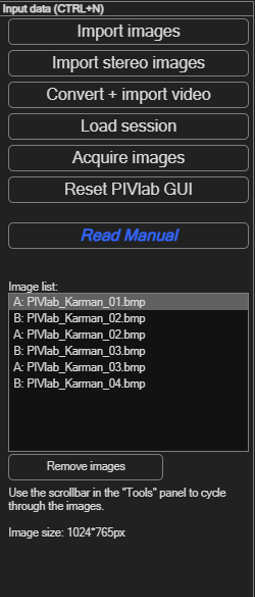
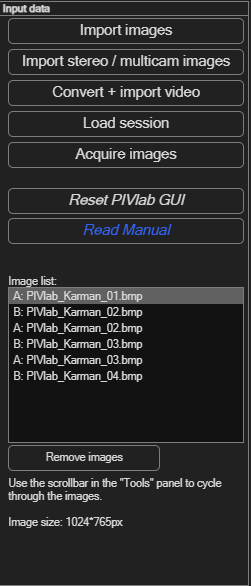
Stereo UI renames: "Stereo-PIV / multicam"; 3D view orbit direction
- "Import multi-camera images" -> "Import stereo / multicam images"; Input
  data buttons 11 pt so the label fits
- Menu entry and panel "Multi-camera PIV" -> "Stereo-PIV / multicam"
- "Compute 3D alignment" -> "Compute stereo / 3D alignment"
- Manual: UI names, search index, new screenshots of the Input data and
  Stereo-PIV / multicam panels
- 3D scenes: horizontal orbit follows the mouse like the vertical one,
  0.5 deg per pixel

Changed region(s): [[0.0279, 0.0, 1.0, 1.0], [0.0279, 0.4608, 0.5857, 0.6758]]

diff --git a/docs/manual/pages/command-line.html b/docs/manual/pages/command-line.html
@@ -50,7 +50,7 @@ pivlab.saveSession(res, "analysis.mat");                           % open it in 
       <tr><td><code>pivlab.display(res, ...)</code></td><td>Vectors on the particle image or on a transparent colour map with colour bar, all options of the plot settings.</td><td>Plot appearance</td></tr>
       <tr><td><code>pivlab.defaults()</code>, <code>pivlab.loadSettings(file)</code></td><td>Default settings, or the settings of a settings file or session (detected automatically).</td><td>Load settings</td></tr>
       <tr><td><code>pivlab.loadSession(file)</code>, <code>pivlab.saveSession(res, file)</code></td><td>Results of a session; save results as a session that opens in the GUI.</td><td>Load / save session</td></tr>
-      <tr><td><code>pivlab.stereo(imgs, boards, board, ...)</code></td><td>Stereo-PIV of two cameras: stereo calibration, disparity correction, PIV of both cameras, U, V and W (see <a href="#stereo">below</a>).</td><td>Stereo-PIV panel + Analyze</td></tr>
+      <tr><td><code>pivlab.stereo(imgs, boards, board, ...)</code></td><td>Stereo-PIV of two cameras: stereo calibration, disparity correction, PIV of both cameras, U, V and W (see <a href="#stereo">below</a>).</td><td>Stereo-PIV / multicam panel + Analyze</td></tr>
     </table>
 
     <h2 id="results">The result struct</h2>
@@ -128,7 +128,7 @@ imgs = pivlab.preprocess(imgs, Camera="camera_calibration.mat");</code></pre>
     <code>pivlab.saveSession</code> saves it, so the GUI opens the session with the same corrected images.</p>
 
     <h2 id="stereo">Stereo-PIV</h2>
-    <p><code>pivlab.stereo</code> does what the <a href="stereo-piv.html">Stereo-PIV panel</a> and
+    <p><code>pivlab.stereo</code> does what the <a href="stereo-piv.html">Stereo-PIV / multicam panel</a> and
     <span class="ui">Analyze</span> do in the GUI. It needs the images and the lens calibration of both
     cameras, one image of the ChArUco board in the light sheet per camera, and the board definition:</p>
 <pre><code>imgs{1} = pivlab.preprocess(pivlab.readImages("D:\run1\cam1\*.tif", "pairwise"), Camera="lens_cam1.mat");
@@ -143,7 +143,7 @@ pivlab.display(res, Overlay="w");</code></pre>
       <li>The result is a normal result with the out-of-plane component in addition:
       <code>res.w</code>, positive along z = x × y (with the default axes: toward camera 1).
       <code>res.stereo</code> holds the stereo calibration, the disparity (with the report of the
-      Stereo-PIV panel in <code>res.stereo.disparity.report</code>), the 2D results of both cameras and
+      Stereo-PIV / multicam panel in <code>res.stereo.disparity.report</code>), the 2D results of both cameras and
       the reconstruction residual.</li>
       <li>As <span class="ui">Analyze</span> in the GUI, <code>pivlab.stereo</code> does not validate: call
       <code>pivlab.filter</code>. <code>VelocityLimits</code> act on U, V of the 3D result and
@@ -158,7 +158,7 @@ pivlab.display(res, Overlay="w");</code></pre>
       <code>Overlay="w"</code> and <code>Overlay="residual"</code> (how well both cameras fit one
       3D velocity, px).</li>
       <li><code>Settings=pivlab.loadSettings("stereo_session.mat")</code> uses the pre-processing, PIV and
-      Stereo-PIV panel settings of a GUI session. <code>pivlab.loadSession</code> reads stereo sessions of
+      Stereo-PIV / multicam panel settings of a GUI session. <code>pivlab.loadSession</code> reads stereo sessions of
       the GUI, <code>pivlab.saveSession</code> writes sessions that the GUI opens in stereo mode.</li>
     </ul>
     <p>A complete example: <code>Example_scripts/PIVlab_api_stereo.m</code>, with the synthetic stereo

diff --git a/docs/manual/pages/stereo-piv.html b/docs/manual/pages/stereo-piv.html
@@ -13,7 +13,7 @@
     <p class="lead">Two cameras that look at the light sheet from different directions give all
     <strong>three velocity components</strong>: u and v in the sheet and w through it. Most of the
     work is the same as in 2D PIV; new are the <strong>camera switch</strong> and the
-    <strong>Stereo-PIV panel</strong>.</p>
+    <strong>Stereo-PIV / multicam panel</strong>.</p>
     <div class="v3">
       <strong>PIVlab 3.14</strong>
       Stereo-PIV is not available in PIVlab 3.14.
@@ -69,7 +69,7 @@
 
     <h2 id="import">1. Import</h2>
     <ul>
-      <li>Input data panel: <span class="ui">Import stereo images</span>
+      <li>Input data panel: <span class="ui">Import stereo / multicam images</span>
       (<kbd>Ctrl</kbd>+<kbd>Shift</kbd>+<kbd>O</kbd>). In the
       <a href="sessions.html#importing">import dialog</a> add the images with
       <span class="ui">Add to camera 1</span> and <span class="ui">Add to camera 2</span>.</li>
@@ -95,15 +95,15 @@
     </ul>
 
     <h2 id="calibration">3. Stereo calibration</h2>
-    <p>Steps 3 and 4 are in the <strong>Stereo-PIV panel</strong>
-    (<span class="ui">Analysis → Stereo-PIV</span>, <kbd>Ctrl</kbd>+<kbd>Shift</kbd>+<kbd>W</kbd>).
+    <p>Steps 3 and 4 are in the <strong>Stereo-PIV / multicam panel</strong>
+    (<span class="ui">Analysis → Stereo-PIV / multicam</span>, <kbd>Ctrl</kbd>+<kbd>Shift</kbd>+<kbd>W</kbd>).
     Its checklist shows what is still missing.</p>
     <figure class="inline-panel">
-      <img src="../assets/img/stereo-piv/panel.png" alt="The Stereo-PIV panel with the checklist, the stereo calibration buttons and the disparity correction settings and report">
-      <figcaption>The <strong>Stereo-PIV</strong> panel after the stereo calibration and the
+      <img src="../assets/img/stereo-piv/panel.png" alt="The Stereo-PIV / multicam panel with the checklist, the 3D alignment buttons and the disparity correction settings and report">
+      <figcaption>The <strong>Stereo-PIV / multicam</strong> panel after the stereo calibration and the
       disparity correction.</figcaption>
     </figure>
-    <p><span class="ui">Compute stereo calibration</span> finds the board corners in both board
+    <p><span class="ui">Compute stereo / 3D alignment</span> finds the board corners in both board
     images and computes the camera positions. Afterwards:</p>
     <ul>
       <li>Both cameras are shown on the common grid (check with <span class="ui">Show rectified

diff --git a/docs/manual/pages/sessions.html b/docs/manual/pages/sessions.html
@@ -21,7 +21,7 @@
         <p>Choose <span class="ui">File → New session</span> (<kbd>Ctrl+Shift+N</kbd>), or click the
         first icon in <span class="ui">Main tasks quick access</span>. This opens the
         <span class="ui">Input data</span> panel shown here, with these ways to get images in:
-        <span class="ui">Import images</span> (from disk), <span class="ui">Import stereo images</span>
+        <span class="ui">Import images</span> (from disk), <span class="ui">Import stereo / multicam images</span>
         (two cameras, see <a href="stereo-piv.html">Stereo-PIV</a>), <span class="ui">Convert + import
         video</span>, <span class="ui">Load session</span> (resume earlier work — see below), and
         <span class="ui">Acquire images</span> (capture directly from a connected camera).</p>
@@ -189,7 +189,7 @@
     <div class="note">
       <strong>Related, but covered elsewhere</strong>
       <span class="ui">Acquire images</span> (live camera capture) and
-      <a href="stereo-piv.html">Stereo-PIV</a> (<span class="ui">Import stereo images</span>,
+      <a href="stereo-piv.html">Stereo-PIV</a> (<span class="ui">Import stereo / multicam images</span>,
       two cameras in one session) are more specialized topics with their own pages.
     </div>
   </article>

diff --git a/docs/manual/pages/shortcuts.html b/docs/manual/pages/shortcuts.html
@@ -22,7 +22,7 @@
     <table class="ref">
       <tr><th>Shortcut</th><th>Opens</th></tr>
       <tr><td><kbd>Ctrl</kbd>+<kbd>Shift</kbd>+<kbd>N</kbd></td><td>New session / load image data</td></tr>
-      <tr><td><kbd>Ctrl</kbd>+<kbd>Shift</kbd>+<kbd>O</kbd></td><td>Import stereo images (camera 1 and camera 2)</td></tr>
+      <tr><td><kbd>Ctrl</kbd>+<kbd>Shift</kbd>+<kbd>O</kbd></td><td>Import stereo / multicam images (camera 1 and camera 2)</td></tr>
     </table>
 
     <h2 id="settings">Image settings</h2>
@@ -37,7 +37,7 @@
     <table class="ref">
       <tr><th>Shortcut</th><th>Opens</th></tr>
       <tr><td><kbd>Ctrl</kbd>+<kbd>Shift</kbd>+<kbd>S</kbd></td><td>PIV settings</td></tr>
-      <tr><td><kbd>Ctrl</kbd>+<kbd>Shift</kbd>+<kbd>W</kbd></td><td>Stereo-PIV panel</td></tr>
+      <tr><td><kbd>Ctrl</kbd>+<kbd>Shift</kbd>+<kbd>W</kbd></td><td>Stereo-PIV / multicam panel</td></tr>
       <tr><td><kbd>Ctrl</kbd>+<kbd>Shift</kbd>+<kbd>A</kbd></td><td>Analyze (current frame / all frames)</td></tr>
       <tr><td><kbd>Ctrl</kbd>+<kbd>Shift</kbd>+<kbd>V</kbd></td><td>Velocity-based vector validation</td></tr>
       <tr><td><kbd>Ctrl</kbd>+<kbd>Shift</kbd>+<kbd>F</kbd></td><td>Image-based validation</td></tr>

diff --git a/docs/manual/assets/js/search-index.js b/docs/manual/assets/js/search-index.js
@@ -474,7 +474,7 @@ window.MANUAL_SEARCH = [
     title: "Stereo-PIV analysis (2D3C)",
     href: "pages/stereo-piv.html", hash: "top",
     section: "Stereo-PIV (2D3C)",
-    text: "stereo piv analysis two cameras 2d3c three components w out-of-plane import stereo images camera switch lens calibration board image load target image stereo calibration disparity correction remaining disparity reconstruction residual colour bar coordinate system x y z u v w tilted sensor check analysis rectified board stereo-piv panel checklist export w column vtk tecplot ascii mat w component 3d magnitude mean tke"
+    text: "stereo piv analysis two cameras 2d3c three components w out-of-plane import stereo images import stereo / multicam images multicam camera switch lens calibration board image load target image stereo calibration disparity correction remaining disparity reconstruction residual colour bar coordinate system x y z u v w tilted sensor check analysis rectified board stereo-piv panel stereo-piv / multicam panel compute stereo / 3d alignment checklist export w column vtk tecplot ascii mat w component 3d magnitude mean tke"
   },
   {
     title: "Stereo-PIV: set-up and recording",

diff --git a/docs/manual/pages/stereo-setup.html b/docs/manual/pages/stereo-setup.html
@@ -120,7 +120,7 @@
       <li>With <a href="capture.html#stereo">stereo acquisition</a> in PIVlab, both cameras get the same
       trigger and the recording opens directly in stereo mode.</li>
       <li>Images recorded with another system are <a href="stereo-piv.html#import">imported</a> with
-      <span class="ui">Import stereo images</span>.</li>
+      <span class="ui">Import stereo / multicam images</span>.</li>
     </ul>
     <p>Next: <a href="stereo-piv.html">Stereo-PIV analysis</a>, from the images to u, v and w. To try
     everything without hardware, the <a href="synthetic-images.html">stereo-PIV simulator</a> creates

diff --git a/docs/manual/pages/camera-calibration.html b/docs/manual/pages/camera-calibration.html
@@ -23,7 +23,7 @@
 
     <div class="note">
       <strong>Two cameras: stereo-PIV</strong>
-      After <span class="ui">Import stereo images</span>, each camera gets its own lens
+      After <span class="ui">Import stereo / multicam images</span>, each camera gets its own lens
       calibration and its own board image in the light sheet. The panels work on the camera
       that is shown; switch it with the <span class="ui">CAM 1</span> / <span class="ui">CAM 2</span>
       button at the bottom left. The stereo calibration then replaces the 2D rectification. See

diff --git a/+gui/generateUI.m b/+gui/generateUI.m
@@ -137,33 +137,33 @@ item=[0 0 0 0];
 
 item=[0 item(2)+item(4) parentitem(3) 2];
 gui.ui_button(handles.multip01, pos(parentitem,item,margin), 'Import images', {@import.loadimgsbutton_Callback,1,[]}, ...
-    'Fontsize',12, 'TooltipString','Load image data');
+    'Fontsize',11, 'TooltipString','Load image data');
 
 item=[0 item(2)+item(4)+margin/4 parentitem(3) 2];
-gui.ui_button(handles.multip01, pos(parentitem,item,margin), 'Import multi-camera images', @import.stereo_import_Callback, ...
-    'Fontsize',12, 'Tag','stereo_import', ...
-    'TooltipString','Import the images of camera 1 and camera 2: stereo-PIV (u, v, w) or one larger field of view (u, v), chosen from the camera geometry by "Compute 3D alignment" (Ctrl+Shift+O)');
+gui.ui_button(handles.multip01, pos(parentitem,item,margin), 'Import stereo / multicam images', @import.stereo_import_Callback, ...
+    'Fontsize',11, 'Tag','stereo_import', ...
+    'TooltipString','Import the images of camera 1 and camera 2: stereo-PIV (u, v, w) or one larger field of view (u, v), chosen from the camera geometry by "Compute stereo / 3D alignment" (Ctrl+Shift+O)');
 
 item=[0 item(2)+item(4)+margin/4 parentitem(3) 2];
 gui.ui_button(handles.multip01, pos(parentitem,item,margin), 'Convert + import video', @import.convertvideobutton_Callback, ...
-    'Fontsize',12, 'TooltipString','Convert a video to lossless image files, then load them (time-resolved)');
+    'Fontsize',11, 'TooltipString','Convert a video to lossless image files, then load them (time-resolved)');
 
 item=[0 item(2)+item(4)+margin/4 parentitem(3) 2];
 gui.ui_button(handles.multip01, pos(parentitem,item,margin), 'Load session', @import.load_session_Callback, ...
-    'Fontsize',12, 'TooltipString','Load previously saved session file');
+    'Fontsize',11, 'TooltipString','Load previously saved session file');
 
 item=[0 item(2)+item(4)+margin/4 parentitem(3) 2];
 gui.ui_button(handles.multip01, pos(parentitem,item,margin), 'Acquire images', @acquisition.capture_images_Callback, ...
-    'Fontsize',12, 'TooltipString','Acquire PIV images in PIVlab');
+    'Fontsize',11, 'TooltipString','Acquire PIV images in PIVlab');
 
 item=[0 item(2)+item(4)+margin parentitem(3) 2];
 gui.ui_button(handles.multip01, pos(parentitem,item,margin), 'Reset PIVlab GUI', @gui.reset_gui_Callback, ...
-    'Fontsize',12, 'Tag','reset_gui', 'Fontangle','italic', ...
+    'Fontsize',11, 'Tag','reset_gui', 'Fontangle','italic', ...
     'TooltipString','Remove all images, results, masks and calibrations and set all settings to their defaults, as after a new start of PIVlab');
 
 item=[0 item(2)+item(4)+margin/4 parentitem(3) 2];
 gui.ui_button(handles.multip01, pos(parentitem,item,margin), 'Read Manual', @gui.pivlabmanual_Callback, ...
-    'Fontsize',12, 'TooltipString','Open the PIVlab manual', 'Foregroundcolor',[0.2 0.4 1], 'Fontangle','italic');
+    'Fontsize',11, 'TooltipString','Open the PIVlab manual', 'Foregroundcolor',[0.2 0.4 1], 'Fontangle','italic');
 
 item=[0 item(2)+item(4)+margin*1.5 parentitem(3) 1];
 gui.ui_text(handles.multip01, pos(parentitem,item,margin), 'Image list:');
@@ -2920,7 +2920,7 @@ gui.ui_setting(handles.rect_imagedata, 'checkbox', pos(parentitem,item,margin), 
 
 % stereo-PIV: instead of upscaling and "Enable image rectification" (gui.update_dependent_controls)
 item=[0 upscale_row parentitem(3) 5];
-gui.ui_text(handles.rect_imagedata, pos(parentitem,item,margin), 'Two cameras: this board image is used by the 3D alignment (Analysis -> Multi-camera PIV).', ...
+gui.ui_text(handles.rect_imagedata, pos(parentitem,item,margin), 'Two cameras: this board image is used by the 3D alignment (Analysis -> Stereo-PIV / multicam).', ...
     'FontWeight','bold', 'Visible','off', 'Tag','stereo_rect_note', 'UserData','not_a_setting');
 
 
@@ -3020,7 +3020,7 @@ gui.ui_text(handles.plot_correlation_matrices, pos(parentitem,item,margin), 'Aft
 
 
 %% Multip30 Stereo-PIV
-handles.multip30 = gui.ui_panel(MainWindow, mainpanel_pos, 'Multi-camera PIV', ...
+handles.multip30 = gui.ui_panel(MainWindow, mainpanel_pos, 'Stereo-PIV / multicam', ...
     'Tag','multip30');
 parentitem=get(handles.multip30, 'Position');
 item=[0 0 0 0];
@@ -3029,7 +3029,7 @@ item=[0 item(2)+item(4) parentitem(3) 9.5];
 handles.stereo_steps_panel = gui.ui_panel(handles.multip30, pos(parentitem,item,margin), 'Steps', ...
     'Tag','stereo_steps_panel');
 parentitem2=get(handles.stereo_steps_panel, 'Position');
-gui.ui_text(handles.stereo_steps_panel, [margin margin/4 parentitem2(3)-margin*2 parentitem2(4)-margin*1.25], 'Load the images of both cameras first (Input data panel: "Import multi-camera images").', ...
+gui.ui_text(handles.stereo_steps_panel, [margin margin/4 parentitem2(3)-margin*2 parentitem2(4)-margin*1.25], 'Load the images of both cameras first (Input data panel: "Import stereo / multicam images").', ...
     'Tag','stereo_steps', 'UserData','not_a_setting');
 % one row per step, coloured by stereo.update_panel (done / open / next step); only in stereo mode
 row_height=(parentitem2(4)-margin*1.25)/7;
@@ -3044,7 +3044,7 @@ handles.stereo_calib_panel = gui.ui_panel(handles.multip30, pos(parentitem,item,
 parentitem2=get(handles.stereo_calib_panel, 'Position');
 item2=[0 0 0 0];
 item2=[0 item2(2)+item2(4) parentitem2(3) 1.5];
-gui.ui_button(handles.stereo_calib_panel, pos(parentitem2,item2,margin), 'Compute 3D alignment', @stereo.calibrate_Callback, ...
+gui.ui_button(handles.stereo_calib_panel, pos(parentitem2,item2,margin), 'Compute stereo / 3D alignment', @stereo.calibrate_Callback, ...
     'Tag','stereo_calibrate', ...
     'TooltipString','Places both cameras on the board from the board image in the light sheet of each camera (Image settings -> Camera calibration -> Image rectification -> Load target image). From the geometry: stereo-PIV (cameras look from different directions at the same area) or one larger field of view (cameras side by side, small overlap)');
 item2=[0 item2(2)+item2(4)+margin/4 parentitem2(3) 1.5];

diff --git a/+import/stereo_import_Callback.m b/+import/stereo_import_Callback.m
@@ -19,14 +19,14 @@ end
 was_stereo = isequal(gui.retr('stereomode'), 1);
 was_combined = fov.gui_active; % two cameras combined into a larger field of view
 if isempty(paths) && (was_stereo || was_combined) && ~batch
-    answer = gui.custom_msgbox('quest', getappdata(0,'hgui'), 'Multi-camera PIV', ['Load new images of both cameras?' newline newline ...
+    answer = gui.custom_msgbox('quest', getappdata(0,'hgui'), 'Stereo-PIV / multicam', ['Load new images of both cameras?' newline newline ...
         'Results, masks and background images are removed. The calibrations stay if ' ...
         'the new images have the same size.'], 'modal', {'Yes','No'}, 'Yes');
     if ~strcmp(answer, 'Yes')
         return
     end
 elseif isempty(paths) && ~isempty(gui.retr('filepath')) && ~batch
-    answer = gui.custom_msgbox('quest', getappdata(0,'hgui'), 'Multi-camera PIV', ['Start a session with two cameras?' ...
+    answer = gui.custom_msgbox('quest', getappdata(0,'hgui'), 'Stereo-PIV / multicam', ['Start a session with two cameras?' ...
         newline newline 'The images, calibrations and results that are loaded now are removed.'], 'modal', {'Yes','No'}, 'Yes');
     if ~strcmp(answer, 'Yes')
         return
@@ -112,7 +112,7 @@ if restored && isfield(kept, 'fov_calib')
     % same cameras as the combined data set before: combined again (no new 3D alignment needed)
     fov.enter_combined(kept.fov_calib);
     if ~batch
-        gui.custom_msgbox('success', getappdata(0,'hgui'), 'Multi-camera PIV', ['Images of both cameras loaded (' ...
+        gui.custom_msgbox('success', getappdata(0,'hgui'), 'Stereo-PIV / multicam', ['Images of both cameras loaded (' ...
             int2str(n_images(1) / 2) ' image pairs each).' newline newline 'The lens calibrations and the 3D alignment ' ...
             'were kept (same cameras): both cameras are combined into one image again.'], 'modal');
     end

diff --git a/+simulate/recording_3d.m b/+simulate/recording_3d.m
@@ -575,13 +575,13 @@ p('  generator_setup.mat              variable setup: input of simulate.recordin
 p('');
 p('Workflow in PIVlab');
 if n > 1
-    p('  1. Input data: "Import multi-camera images": the particle images of camera 1 and camera 2.');
+    p('  1. Input data: "Import stereo / multicam images": the particle images of camera 1 and camera 2.');
     p('  2. For camera <k> = 1 and 2 (switch with the CAM 1 / CAM 2 button at the bottom left):');
     p('     Image settings -> Camera calibration -> Camera calibration (undistortion):');
     p('     load the calibration images of camera <k> and estimate the camera parameters.');
     p('     Image settings -> Camera calibration -> Image rectification / alignment:');
     p('     load board_in_light_sheet_cam<k>.tif as target image.');
-    p('  3. Analysis -> Multi-camera PIV: "Compute 3D alignment" (stereo-PIV or larger field of view, from the camera positions), measure the disparity, analyze.');
+    p('  3. Analysis -> Stereo-PIV / multicam: "Compute stereo / 3D alignment" (stereo-PIV or larger field of view, from the camera positions), measure the disparity, analyze.');
     p('     The light sheet is offset by %g mm and tilted: the disparity correction has to find it.', setup.sheet.Offset);
     p('  4. Compare with the ground truth: simulate.truth_at_board(truth, x_mm, y_mm).');
 else

diff --git a/+stereo/calibrate_Callback.m b/+stereo/calibrate_Callback.m
@@ -1,5 +1,5 @@
 function calibrate_Callback(~, ~, ~)
-%CALIBRATE_CALLBACK "Compute 3D alignment" (Multi-camera PIV panel): stereo-PIV or larger field of view.
+%CALIBRATE_CALLBACK "Compute stereo / 3D alignment" (Stereo-PIV / multicam panel): stereo-PIV or larger field of view.
 % Uses the lens calibration and the board image in the light sheet of each camera (camera calibration
 % panels of camera 1 and 2) and the board definition of the calibration panels. Afterwards both cameras
 % show their images on the common grid (stereo.update_maps), the region of interest is the overlap of
@@ -11,7 +11,7 @@ function calibrate_Callback(~, ~, ~)
 hgui = getappdata(0, 'hgui');
 batch = isequal(gui.retr('batchModeActive'), 1);
 if ~isequal(gui.retr('stereomode'), 1)
-    gui.custom_msgbox('error', hgui, 'Multi-camera PIV', 'Load the images of both cameras first (Input data panel: "Import multi-camera images").', 'modal');
+    gui.custom_msgbox('error', hgui, 'Stereo-PIV / multicam', 'Load the images of both cameras first (Input data panel: "Import stereo / multicam images").', 'modal');
     return
 end
 stereo.store_active_camera

diff --git a/unittests/test_fov_gui.m b/unittests/test_fov_gui.m
@@ -1,6 +1,6 @@
 %% Two cameras for a larger field of view in the PIVlab window
 %
-% "Import multi-camera images" + lens calibration and board image per camera + "Compute 3D alignment" with two
+% "Import stereo / multicam images" + lens calibration and board image per camera + "Compute stereo / 3D alignment" with two
 % cameras side by side: PIVlab chooses the larger field of view and makes ONE combined 2D data set (camera
 % switch gone, px -> mm filled in, automatic region of interest inside the views, calibration panel locked). Then: analysis
 % against the ground truth, background, image-based validation, sessions, a new import of the same cameras
@@ -131,7 +131,7 @@ verifyEqual(testCase, import.get_img(5), before);
 end
 
 function test_new_import_keeps_alignment(testCase)
-% "Import multi-camera images" with images of the same cameras: combined again, no new 3D alignment
+% "Import stereo / multicam images" with images of the same cameras: combined again, no new 3D alignment
 c = testCase.TestData.c;
 combined(c);
 calib = gui.retr('fov_calib');
